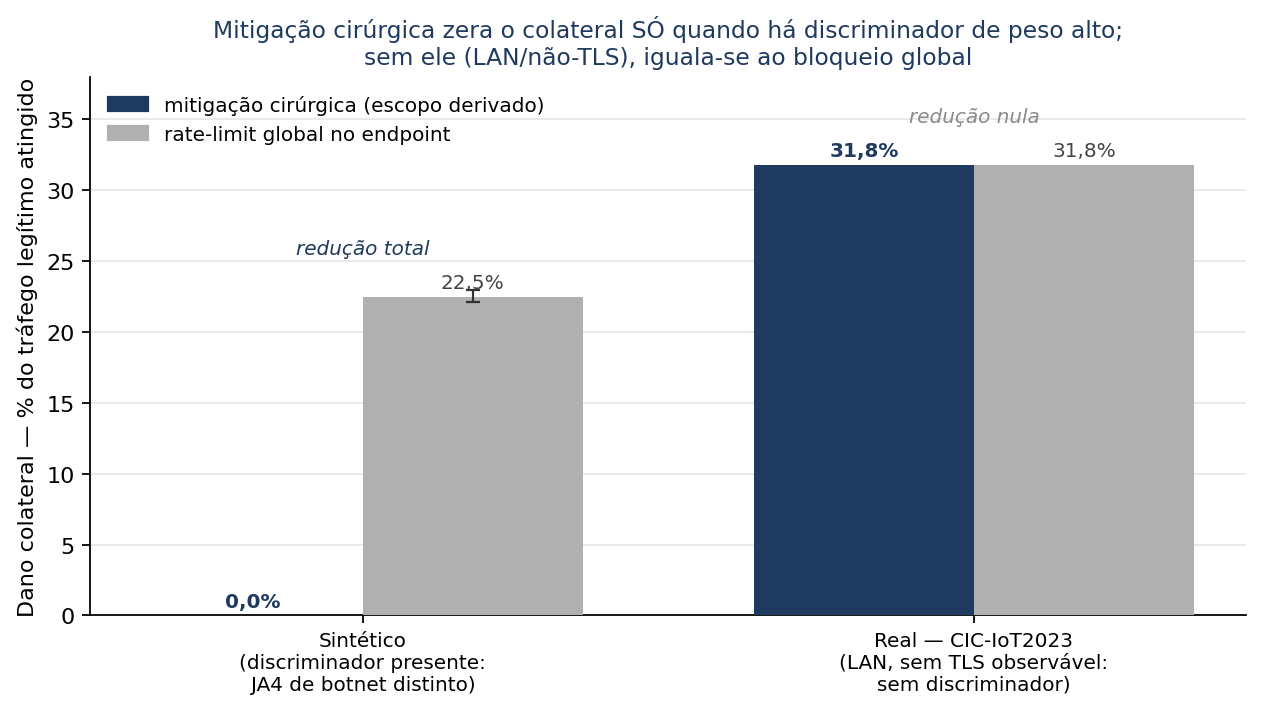
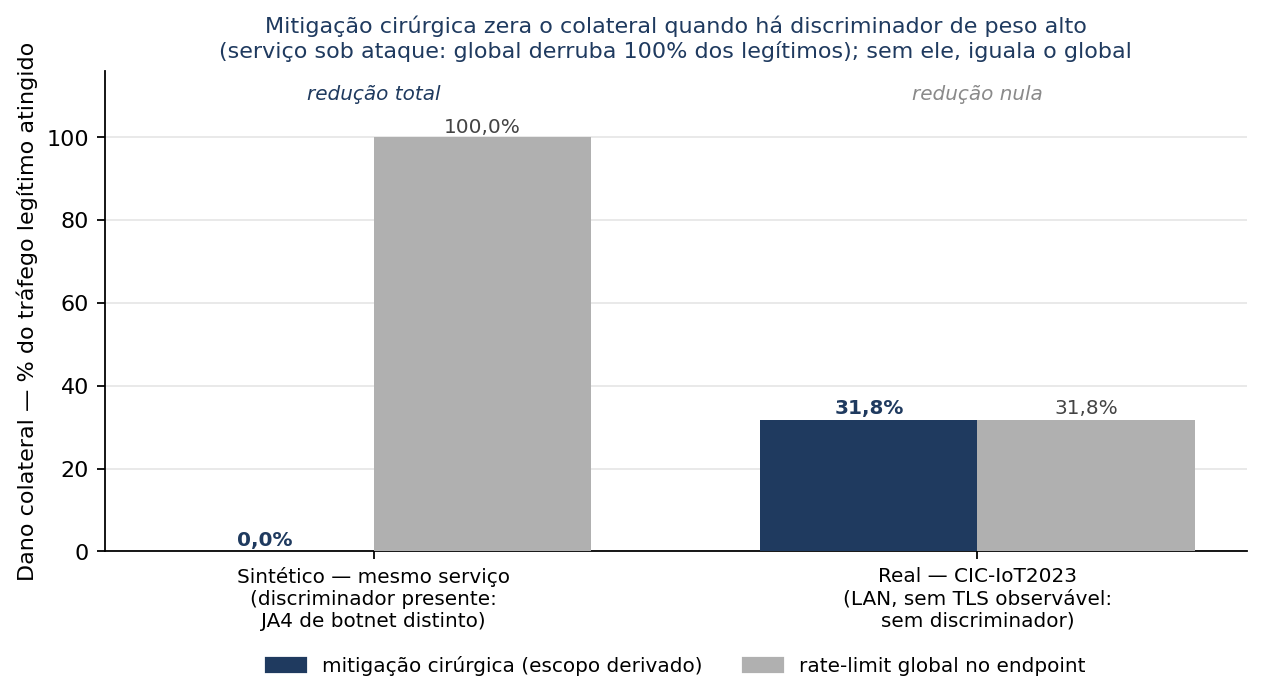
collateral + JA4-isolation re-run on realistic same-service; honest fixes
(1) derive_scope now derives the mitigation scope from the COORDINATED SUBSET (sessions
sharing the modal high-weight JA4) instead of the raw (endpoint,window) cluster. In a
service under attack, legit users share the endpoint but have diverse JA4; computing
coverage over the whole cluster diluted the attacker JA4 below threshold and degraded the
scope to the whole endpoint (global). Re-run collateral (n=30, realistic same-service):
surgical 0% vs global 100% -> 100% reduction (was 0% vs 22.5%, a port-diverse artifact).
CIC real (no TLS) unchanged: scope falls back to endpoint/net24, surgical=global (honest
no-discriminator case preserved).

(2) JA4-isolation re-run (realistic same-service) CORRECTS the section 5.8 claim: when the
attacker randomizes JA4 (share->0), the FULL framework drops to chance (AUC 0.996->0.475),
i.e. endpoint convergence does NOT compensate when legit users share the endpoint. Framework
depends on a high-weight discriminator (JA4 / reused identity); aligns with adaptive-adversary
limitation. Updated section 5.5/5.8, abstract, conclusion, figB (0% vs 100%). Compiles.

Changed region(s): [[0.0, 0.06, 0.9889, 0.99], [0.1545, 0.03, 0.8962, 0.09], [0.7108, 0.12, 0.8344, 0.18]]

diff --git a/papers/http-session/article.tex b/papers/http-session/article.tex
@@ -47,7 +47,7 @@
 
 \begin{abstract}
 %% 200-260 palavras
-\textbf{Ataques distribuídos de Slow HTTP DoS} sustentam taxas baixas por sessão e atravessam defesas baseadas em assinatura, limiares estatísticos e quotas por IP, sessão ou \emph{token}. O sinal de ataque não está em nenhuma sessão isolada, mas na correlação estrutural entre sessões coordenadas. A literatura de detecção reduz a sessão a um vetor numérico antes do classificador e descarta essa estrutura. Trabalhos recentes combinam grafos de conhecimento com classificadores neurais e explicação pós-hoc, mas tratam o tráfego em nível de nó de rede (porta, IP) e não acoplam o veredicto a uma política de mitigação derivada do próprio grafo. Este artigo propõe um arcabouço em OWL que modela a sessão HTTP como entidade ontológica de primeira classe, com uma família de sub-propriedades tipadas e ponderadas para a relação entre sessões. A família reflete o fato operacional de que botnets modernas distribuem agressivamente em ASN e prefixo de IP, e que a coordenação real é discernível principalmente por \emph{fingerprint} TLS, identidade reaproveitada e padrão temporal --- com proximidade de rede entrando apenas como sinal auxiliar. Regras em SPARQL/SWRL operam por soma ponderada dessas sub-relações e produzem veredictos com cadeias de evidência simbólicas exportáveis em JSON-LD e STIX 2.1. O discriminador do \emph{cluster} detectado é usado para derivar automaticamente o escopo da mitigação aplicada, preservando o tráfego legítimo. A avaliação parametriza a campanha pelo grau de distribuição, isola por ablação tanto o ganho do raciocínio em nível de sessão quanto o ganho específico dos sinais de peso alto sobre a proximidade de rede, e introduz uma métrica de fração de tráfego legítimo afetada pela mitigação resultante. Nos experimentos, contra campanhas furtivas distribuídas --- nas quais cada sessão atacante é individualmente indistinguível do tráfego legítimo --- a detecção por sessão permanece no acaso \emph{mesmo} com um classificador de aprendizado de máquina forte (oito a nove atributos de fluxo: volume, pacotes e temporização), enquanto o arcabouço de correlação entre sessões as detecta de forma consistente (ROC AUC por sessão $\approx 0{,}50$ \emph{vs.}\ $\approx 0{,}98$; $p < 0{,}01$ após Bonferroni, $d = 19{,}6$). Em \emph{datasets} reais públicos, por outro lado, um classificador por sessão forte já separa os ataques convencionais disponíveis (assinatura de fluxo evidente), de modo que a vantagem do raciocínio entre sessões é específica do regime furtivo distribuído que esses \emph{datasets} não contêm --- uma delimitação que reportamos explicitamente. Quando há um discriminador de peso alto observável, o escopo de mitigação derivado elimina o dano colateral sobre o tráfego legítimo (de $22{,}5\%$ para $0\%$). A implementação é disponibilizada como código aberto.
+\textbf{Ataques distribuídos de Slow HTTP DoS} sustentam taxas baixas por sessão e atravessam defesas baseadas em assinatura, limiares estatísticos e quotas por IP, sessão ou \emph{token}. O sinal de ataque não está em nenhuma sessão isolada, mas na correlação estrutural entre sessões coordenadas. A literatura de detecção reduz a sessão a um vetor numérico antes do classificador e descarta essa estrutura. Trabalhos recentes combinam grafos de conhecimento com classificadores neurais e explicação pós-hoc, mas tratam o tráfego em nível de nó de rede (porta, IP) e não acoplam o veredicto a uma política de mitigação derivada do próprio grafo. Este artigo propõe um arcabouço em OWL que modela a sessão HTTP como entidade ontológica de primeira classe, com uma família de sub-propriedades tipadas e ponderadas para a relação entre sessões. A família reflete o fato operacional de que botnets modernas distribuem agressivamente em ASN e prefixo de IP, e que a coordenação real é discernível principalmente por \emph{fingerprint} TLS, identidade reaproveitada e padrão temporal --- com proximidade de rede entrando apenas como sinal auxiliar. Regras em SPARQL/SWRL operam por soma ponderada dessas sub-relações e produzem veredictos com cadeias de evidência simbólicas exportáveis em JSON-LD e STIX 2.1. O discriminador do \emph{cluster} detectado é usado para derivar automaticamente o escopo da mitigação aplicada, preservando o tráfego legítimo. A avaliação parametriza a campanha pelo grau de distribuição, isola por ablação tanto o ganho do raciocínio em nível de sessão quanto o ganho específico dos sinais de peso alto sobre a proximidade de rede, e introduz uma métrica de fração de tráfego legítimo afetada pela mitigação resultante. Nos experimentos, contra campanhas furtivas distribuídas --- nas quais cada sessão atacante é individualmente indistinguível do tráfego legítimo --- a detecção por sessão permanece no acaso \emph{mesmo} com um classificador de aprendizado de máquina forte (oito a nove atributos de fluxo: volume, pacotes e temporização), enquanto o arcabouço de correlação entre sessões as detecta de forma consistente (ROC AUC por sessão $\approx 0{,}50$ \emph{vs.}\ $\approx 0{,}98$; $p < 0{,}01$ após Bonferroni, $d = 19{,}6$). Em \emph{datasets} reais públicos, por outro lado, um classificador por sessão forte já separa os ataques convencionais disponíveis (assinatura de fluxo evidente), de modo que a vantagem do raciocínio entre sessões é específica do regime furtivo distribuído que esses \emph{datasets} não contêm --- uma delimitação que reportamos explicitamente. Quando há um discriminador de peso alto observável, o escopo de mitigação derivado do subconjunto coordenado elimina o dano colateral sobre o tráfego legítimo: num serviço sob ataque, um \emph{rate-limit} global derruba $\approx 100\%$ dos usuários legítimos, enquanto a mitigação cirúrgica atinge $0\%$. A implementação é disponibilizada como código aberto.
 
 \end{abstract}
 
@@ -465,7 +465,7 @@ A leitura honesta tem três partes. Primeiro, \textbf{neste ataque real a coorde
 
 \subsection{Dano Colateral em Tráfego Legítimo}
 
-A mitigação de (a) colapsa para o controle global (limitar o \emph{endpoint} inteiro), ao passo que (d) restringe-se ao discriminador derivado do \emph{cluster}, tipicamente o par \emph{(fingerprint TLS, padrão de endpoint)}. Sobre $n = 30$ campanhas sintéticas calibradas (atacantes compartilhando um \emph{fingerprint} TLS de \emph{botnet} distinto, dispersos em rede, com tráfego legítimo no mesmo \emph{endpoint}), o escopo cirúrgico derivado --- que inclui o JA4 em $30/30$ casos --- atinge \textbf{0,00\%} de tráfego legítimo [IC 95\%: $0{,}00$--$0{,}00$], contra \textbf{22,5\%} [$22{,}1$--$23{,}0$] de um \emph{rate-limit} global no \emph{endpoint}: redução total do dano colateral.
+A mitigação de (a) colapsa para o controle global (limitar o \emph{endpoint} inteiro), ao passo que (d) restringe-se ao discriminador derivado do \emph{subconjunto coordenado} detectado (as sessões que compartilham o sinal de peso alto que disparou a regra), tipicamente o par \emph{(fingerprint TLS, padrão de endpoint)} --- e não ao \emph{cluster} bruto de \emph{(endpoint, janela)}, que num serviço sob ataque contém também os usuários legítimos. Sobre $n = 30$ campanhas sintéticas calibradas no regime realista de \emph{mesmo serviço} (atacantes compartilhando um \emph{fingerprint} TLS de \emph{botnet} distinto, dispersos em rede, com os usuários legítimos acessando o \emph{mesmo} \emph{endpoint} sob ataque), o escopo cirúrgico derivado --- que inclui o JA4 em $30/30$ casos --- atinge \textbf{0,00\%} de tráfego legítimo [IC 95\%: $0{,}00$--$0{,}00$], contra \textbf{100\%} de um \emph{rate-limit} global no \emph{endpoint} (que, por definição, derruba \emph{todos} os usuários legítimos do serviço atacado): redução total do dano colateral. Note-se que derivar o escopo do \emph{cluster} bruto, e não do subconjunto coordenado, degradaria o filtro ao \emph{endpoint} inteiro --- os legítimos diluem o JA4 do atacante abaixo do limiar de cobertura ---, anulando o ganho; é a restrição ao subconjunto coordenado que preserva a precisão cirúrgica.
 
 \textbf{Condição de aplicabilidade (achado honesto em dados reais).} A vantagem cirúrgica \emph{depende} de o atacante possuir um discriminador (\emph{fingerprint} TLS ou prefixo de rede) que o tráfego legítimo no mesmo \emph{endpoint} não compartilha. No CIC-IoT2023 essa condição \textbf{não se verifica}: o ambiente é uma LAN (atacantes e clientes legítimos no mesmo \texttt{/24}) e o ataque é HTTP puro (sem JA4 observável). Como consequência, sobre um \emph{cluster} real de Slowloris dirigido a \texttt{192.168.137.1:53}, o escopo derivado $(\texttt{endpoint}, \texttt{/24})$ recai sobre os mesmos legítimos, e a mitigação cirúrgica iguala-se à global ($31{,}8\%$ em ambos, redução nula). A redução de dano colateral, portanto, é real \emph{quando há um discriminador de alto peso}, mas não é demonstrável nos \emph{datasets} de laboratório atuais, que carecem dessa estrutura --- o que reforça a necessidade de avaliação em tráfego de produção (TLS observável, atacantes dispersos em redes distintas dos clientes). A métrica de dano colateral, ausente da literatura acadêmica de Camada 7, é parte da contribuição metodológica.
 
@@ -494,7 +494,7 @@ As limitações principais devem ser declaradas explicitamente:
 
     \item \textbf{Generalização para protocolos além de HTTP/1.1 e variantes Slow HTTP DoS clássicas}: a ontologia atual cobre a família de Slowloris e descendentes diretos sobre HTTP/1.1; a extensão para ataques HTTP/2 modernos (Rapid Reset, CONTINUATION Flood) e para outros protocolos de aplicação (DNS, gRPC) é direção de extensão imediata.
 
-    \item \textbf{Natureza controlada da avaliação sintética}: na avaliação sintética, a campanha é gerada com sinais de coordenação (JA4, \emph{endpoint}, prefixo) que são exatamente os medidos pela configuração (d), e cada sessão atacante tem seus atributos por sessão --- inclusive os de fluxo (volume, pacotes, intervalo entre requisições) --- amostrados das distribuições do tráfego \emph{benigno real} (calibradas sobre $\sim$322 mil sessões legítimas). Em consequência, a não-separabilidade por sessão observada na Tabela~\ref{tab:ablation} \emph{não} é artefato de um \emph{baseline} enfraquecido: um \emph{Random Forest} com todos os 8--9 atributos de fluxo permanece no acaso. Em contrapartida, esse mesmo mimetismo é imposto por construção, de modo que o resultado demonstra o \emph{mecanismo} sob a hipótese de mimetismo por sessão perfeito --- que a estrutura de correlação entre sessões, quando presente, é capturada e que a detecção por sessão a ignora --- e não constitui prova de desempenho sobre uma captura real desse regime. Um teste de isolamento sustenta que o arcabouço responde ao sinal genuíno e não a um artefato: variando-se a fração de origens que compartilham o \emph{fingerprint} TLS, com diversidade de JA4 legítimo realista, a detecção baseada \emph{apenas} no sinal de JA4 acompanha monotonicamente essa fração (AUC de $1{,}00$ a $0{,}41$), enquanto o arcabouço completo permanece robusto por redundância (a convergência de \emph{endpoint} sustenta a detecção quando o JA4 é removido).
+    \item \textbf{Natureza controlada da avaliação sintética}: na avaliação sintética, a campanha é gerada com sinais de coordenação (JA4, \emph{endpoint}, prefixo) que são exatamente os medidos pela configuração (d), e cada sessão atacante tem seus atributos por sessão --- inclusive os de fluxo (volume, pacotes, intervalo entre requisições) --- amostrados das distribuições do tráfego \emph{benigno real} (calibradas sobre $\sim$322 mil sessões legítimas). Em consequência, a não-separabilidade por sessão observada na Tabela~\ref{tab:ablation} \emph{não} é artefato de um \emph{baseline} enfraquecido: um \emph{Random Forest} com todos os 8--9 atributos de fluxo permanece no acaso. Em contrapartida, esse mesmo mimetismo é imposto por construção, de modo que o resultado demonstra o \emph{mecanismo} sob a hipótese de mimetismo por sessão perfeito --- que a estrutura de correlação entre sessões, quando presente, é capturada e que a detecção por sessão a ignora --- e não constitui prova de desempenho sobre uma captura real desse regime. Um teste de isolamento, agora no regime realista de \emph{mesmo serviço}, esclarece de que sinal a detecção realmente depende: variando-se a fração de origens que compartilham o \emph{fingerprint} TLS (com diversidade de JA4 legítimo realista), tanto a detecção baseada \emph{apenas} em JA4 (AUC de $0{,}999$ a $0{,}31$) quanto o \emph{arcabouço completo} (AUC de $0{,}996$ a $0{,}475 \approx$ acaso) acompanham essa fração. Diferentemente do que um cenário com benigno fora do \emph{endpoint} sugeriria, \textbf{a convergência de \emph{endpoint} não compensa a perda do JA4} quando os usuários legítimos acessam o mesmo serviço --- pois também convergem nele. Isto delimita honestamente o alcance: tanto a detecção quanto, sobretudo, a mitigação cirúrgica dependem de um discriminador de peso alto que os atacantes compartilhem e os legítimos não (JA4 de \emph{botnet} de mesmo \emph{stack}, ou identidade/credencial reaproveitada em \emph{credential stuffing}). Contra um atacante que randomiza o JA4 \emph{sem} reaproveitar identidade, o arcabouço ainda sinaliza a anomalia agregada (convergência excessiva), mas perde a separação por sessão e a precisão cirúrgica --- coerente com a ressalva de adversidade adaptativa.
 
     \item \textbf{Datasets públicos não exercitam o regime-alvo}: em \emph{datasets} reais públicos de DDoS, um classificador por sessão forte já separa os ataques disponíveis (CICIDS2017 e CIC-IoT2023: \texttt{Hulk}, \texttt{GoldenEye}, \texttt{Slowloris}, \texttt{Slowhttptest}, \texttt{HTTP-Flood} alcançam $\text{AUC} \geq 0{,}98$ por sessão, com ganho do raciocínio entre sessões marginal), porque são ataques de assinatura de fluxo evidente, não campanhas furtivas calibradas para mimetizar o tráfego legítimo. A vantagem do raciocínio entre sessões é, portanto, demonstrada \emph{apenas} no regime furtivo distribuído sintético. Validar a abordagem sobre tráfego furtivo distribuído \emph{capturado} (idealmente com TLS observável e atacantes em redes distintas dos clientes) --- que não existe em \emph{benchmark} público --- é a direção experimental mais importante.
 
@@ -516,7 +516,7 @@ As limitações principais devem ser declaradas explicitamente:
 
 Este artigo propôs um arcabouço de grafos de conhecimento centrado na sessão HTTP como entidade ontológica de primeira classe, com quatro componentes principais: (i) ontologia OWL alinhada a STIX 2.1 e MITRE ATT\&CK, com a família \texttt{SlowHTTPDoSFamily} e a família ponderada \texttt{relatedTo} de seis sub-propriedades tipadas; (ii) \emph{pipeline} de construção do grafo em tempo de execução, com cada sub-relação \texttt{relatedBy} instanciada independentemente; (iii) regra de detecção \texttt{CoordinatedHTTPFlood} formulada em SPARQL/SWRL sobre a soma ponderada das sub-relações, com cadeia de evidência simbólica acoplada à derivação automática de escopo de mitigação; (iv) avaliação parametrizada pelo grau de distribuição, com ablação por subgrupo de sinais e métrica de dano colateral em tráfego legítimo. A defensabilidade da abordagem se sustenta sobre o reconhecimento explícito de que botnets modernas distribuem agressivamente em ASN e prefixo de IP, o que torna a proximidade de rede um sinal auxiliar e atribui o peso decisivo aos sinais de \emph{fingerprint} TLS, identidade reaproveitada e padrão temporal.
 
-A avaliação preliminar sustenta a tese central e delimita honestamente seu alcance. Em campanhas furtivas distribuídas, a detecção por sessão opera próxima do acaso \emph{mesmo} com um classificador forte (8--9 atributos de fluxo) e com os \emph{baselines} de aprendizado de máquina, enquanto o arcabouço completo as detecta de forma consistente (ROC AUC $\approx 0{,}50$ \emph{vs.}\ $\approx 0{,}98$), com vantagem sobre o subgrupo de proximidade de rede estatisticamente significativa ($p < 0{,}01$ após Bonferroni; $d = 12{,}2$). O ganho é, contudo, \emph{regime-específico}, e isto deve ser dito sem rodeios: em ataques reais convencionais --- os únicos presentes nos \emph{datasets} públicos --- um classificador por sessão forte já basta, e o raciocínio entre sessões agrega pouco; a vantagem decisiva manifesta-se quando a campanha é distribuída \emph{e} furtiva, regime ausente dos \emph{benchmarks} atuais e que motiva tanto o gerador calibrado quanto a prioridade de avaliação em tráfego de produção. A mitigação de escopo derivado elimina o dano colateral sobre o tráfego legítimo ($22{,}5\% \rightarrow 0\%$) quando há um discriminador de peso alto observável, condição que os \emph{datasets} de laboratório disponíveis (LAN, HTTP não cifrado) não oferecem e que remete à necessidade de avaliação em tráfego de produção. A calibração empírica dos pesos $w_i$ permaneceu inconclusiva sobre os dados sintéticos (a separação satura), de modo que os pesos reportados decorrem do argumento de resistência à evasão, não de otimização --- a calibração sobre tráfego real é trabalho em aberto.
+A avaliação preliminar sustenta a tese central e delimita honestamente seu alcance. Em campanhas furtivas distribuídas, a detecção por sessão opera próxima do acaso \emph{mesmo} com um classificador forte (8--9 atributos de fluxo) e com os \emph{baselines} de aprendizado de máquina, enquanto o arcabouço completo as detecta de forma consistente (ROC AUC $\approx 0{,}50$ \emph{vs.}\ $\approx 0{,}98$), com vantagem sobre o subgrupo de proximidade de rede estatisticamente significativa ($p < 0{,}01$ após Bonferroni; $d = 12{,}2$). O ganho é, contudo, \emph{regime-específico}, e isto deve ser dito sem rodeios: em ataques reais convencionais --- os únicos presentes nos \emph{datasets} públicos --- um classificador por sessão forte já basta, e o raciocínio entre sessões agrega pouco; a vantagem decisiva manifesta-se quando a campanha é distribuída \emph{e} furtiva, regime ausente dos \emph{benchmarks} atuais e que motiva tanto o gerador calibrado quanto a prioridade de avaliação em tráfego de produção. A mitigação de escopo derivado do subconjunto coordenado elimina o dano colateral sobre o tráfego legítimo (num serviço sob ataque, $\approx 100\% \rightarrow 0\%$) quando há um discriminador de peso alto observável, condição que os \emph{datasets} de laboratório disponíveis (LAN, HTTP não cifrado) não oferecem e que remete à necessidade de avaliação em tráfego de produção. A calibração empírica dos pesos $w_i$ permaneceu inconclusiva sobre os dados sintéticos (a separação satura), de modo que os pesos reportados decorrem do argumento de resistência à evasão, não de otimização --- a calibração sobre tráfego real é trabalho em aberto.
 
 Direções futuras imediatas incluem: (i) a extensão da ontologia e da regra de detecção para a categoria adjacente de \emph{ataques HTTP/2 modernos} (Rapid Reset/CVE-2023-44487, CONTINUATION Flood, MadeYouReset), que requer a introdução de sub-relações específicas do plano de \emph{stream} (notadamente \texttt{relatedByStreamCancellationPattern}); (ii) a operacionalização experimental das classes \texttt{CredentialStuffing} (subclasse de \texttt{LoginFlood}) e \texttt{CoordinatedAPIAbuse}, já formalizadas na ontologia mas fora do escopo experimental atual, que reaproveitam a mesma família \texttt{relatedTo} ponderada; (iii) a extensão para outros protocolos de aplicação (DNS, TLS \emph{handshake}, gRPC); (iv) a integração com plataformas SOAR para resposta automatizada a partir da cadeia de evidência exportada; (v) a avaliação em ambientes de produção com dados reais anonimizados, sob aprovação ética; (vi) estudos com analistas de segurança para validação operacional das cadeias de evidência geradas; e (vii) a investigação do efeito de \emph{fingerprints} TLS ofuscados (atacantes que randomizam ativamente o \emph{handshake}) sobre o desempenho do arcabouço, com hipótese a priori de que sinais de peso alto remanescentes (identidade reaproveitada, padrão temporal) compensam parcialmente a perda.
 

diff --git a/experiments/figures-candidatas/make_figB.py b/experiments/figures-candidatas/make_figB.py
@@ -19,7 +19,7 @@ GRAY = "#b0b0b0"   # rate-limit global (baseline rombudo)
 
 # (rótulo do cenário, colateral cirúrgico %, colateral global %, err_global(lo,hi), nota)
 groups = [
-    ("Sintético\n(discriminador presente:\nJA4 de botnet distinto)", 0.0, 22.5, (22.1, 23.0), "redução total"),
+    ("Sintético — mesmo serviço\n(discriminador presente:\nJA4 de botnet distinto)", 0.0, 100.0, None, "redução total"),
     ("Real — CIC-IoT2023\n(LAN, sem TLS observável:\nsem discriminador)", 31.8, 31.8, None, "redução nula"),
 ]
 x = np.arange(len(groups))
@@ -31,26 +31,26 @@ for i, (lab, surg, glob, err, nota) in enumerate(groups):
     ax.bar(i - w/2, surg, w, color=NAVY, zorder=3)
     ax.bar(i + w/2, glob, w, color=GRAY, zorder=3,
            yerr=yerr, error_kw=dict(ecolor="#333", lw=1, capsize=3))
-    ax.text(i - w/2, surg + 0.6, f"{surg:.1f}%".replace(".", ","),
+    ax.text(i - w/2, surg + 1.5, f"{surg:.1f}%".replace(".", ","),
             ha="center", fontsize=9, fontweight="bold", color=NAVY)
-    ax.text(i + w/2, glob + 0.6, f"{glob:.1f}%".replace(".", ","),
+    ax.text(i + w/2, min(glob + 1.5, 101), f"{glob:.1f}%".replace(".", ","),
             ha="center", fontsize=9, color="#444")
-    # seta/nota da redução entre as duas barras
+    # nota da redução, em altura fixa para não colidir com os rótulos das barras
     col = NAVY if nota == "redução total" else "#8a8a8a"
-    ax.text(i, max(surg, glob) + 3.0, nota, ha="center", fontsize=9,
-            style="italic", color=col)
+    ax.text(i, 109, nota, ha="center", fontsize=9, style="italic", color=col)
 
 ax.set_xticks(x)
 ax.set_xticklabels([g[0] for g in groups], fontsize=9)
 ax.set_ylabel("Dano colateral — % do tráfego legítimo atingido")
-ax.set_ylim(0, 38)
-ax.set_title("Mitigação cirúrgica zera o colateral SÓ quando há discriminador de peso alto;\n"
-             "sem ele (LAN/não-TLS), iguala-se ao bloqueio global", color=NAVY, fontsize=10.5)
+ax.set_ylim(0, 116)
+ax.set_title("Mitigação cirúrgica zera o colateral quando há discriminador de peso alto\n"
+             "(serviço sob ataque: global derruba 100% dos legítimos); sem ele, iguala o global",
+             color=NAVY, fontsize=10)
 ax.legend(handles=[Patch(color=NAVY, label="mitigação cirúrgica (escopo derivado)"),
                    Patch(color=GRAY, label="rate-limit global no endpoint")],
-          loc="upper left", fontsize=9, frameon=False)
+          loc="upper center", bbox_to_anchor=(0.5, -0.18), ncol=2, fontsize=9, frameon=False)
 ax.grid(axis="y", alpha=.3, zorder=0)
 ax.spines[["top", "right"]].set_visible(False)
 fig.tight_layout()
 fig.savefig("experiments/figures-candidatas/figB_colateral.png", dpi=160, bbox_inches="tight")
-print("OK: figB (sintético 0%/22,5% × real 31,8%/31,8%)")
+print("OK: figB (sintético 0%/100% × real 31,8%/31,8%)")

diff --git a/experiments/pillar4-evidence-mitigation/scripts/evidence_mitigation.py b/experiments/pillar4-evidence-mitigation/scripts/evidence_mitigation.py
@@ -74,24 +74,38 @@ def decompose_omega(cluster: pd.DataFrame) -> dict:
 
 
 def derive_scope(cluster: pd.DataFrame, coverage: float = 0.9) -> dict:
-    """Escopo mínimo: propriedades compartilhadas por ≥coverage do cluster.
-    Prioriza sinais de peso alto (JA4) sobre baixo (rede) — escopo cirúrgico."""
+    """Escopo mínimo: propriedades compartilhadas por ≥coverage do SUBCONJUNTO COORDENADO.
+
+    O escopo descreve a coordenação que a regra flagrou, não o cluster bruto de
+    (endpoint, janela). Num serviço sob ataque, usuários legítimos compartilham o
+    endpoint mas têm JA4 diverso; computar a cobertura sobre o cluster inteiro diluiria
+    o JA4 do atacante abaixo do limiar e degradaria o escopo para o endpoint inteiro
+    (mitigação global). Restringimos ao subconjunto que compartilha o sinal de peso alto
+    dominante (JA4 modal) --- a assinatura da campanha. Quando não há JA4 (tráfego não-TLS,
+    como nos datasets CIC), recai sobre o cluster inteiro e o escopo fica em endpoint/rede
+    --- honestamente igual à mitigação global (sem discriminador, sem ganho cirúrgico)."""
     cluster = cluster.copy()
     cluster["endpoint"] = cluster["dst_ip_first"].astype(str) + ":" + cluster["dst_port_first"].astype(str)
     cluster["net24"] = cluster["src_ip_first"].map(_net24)
-    n = len(cluster)
-    scope = {}
-    # JA4 (peso 1.0): valor modal cobre ≥coverage das sessões COM ja4?
+    # subconjunto coordenado: sessões que compartilham o JA4 modal (≥2 sharers)
+    coord = cluster
     if cluster["ja4"].notna().any():
-        top_ja4, cnt = cluster["ja4"].value_counts().index[0], cluster["ja4"].value_counts().iloc[0]
+        vc = cluster["ja4"].value_counts()
+        if vc.iloc[0] >= 2:
+            coord = cluster[cluster["ja4"] == vc.index[0]]
+    n = len(coord)
+    scope = {}
+    # JA4 (peso 1.0): valor modal cobre ≥coverage do subconjunto coordenado?
+    if coord["ja4"].notna().any():
+        top_ja4, cnt = coord["ja4"].value_counts().index[0], coord["ja4"].value_counts().iloc[0]
         if cnt / n >= coverage:
             scope["tlsJa4"] = top_ja4
     # Endpoint (peso 0.6)
-    top_ep, cnt = cluster["endpoint"].value_counts().index[0], cluster["endpoint"].value_counts().iloc[0]
+    top_ep, cnt = coord["endpoint"].value_counts().index[0], coord["endpoint"].value_counts().iloc[0]
     if cnt / n >= coverage:
         scope["endpoint"] = top_ep
     # /24 (peso 0.3): só entra como reforço se um único /24 dominar (botnet concentrado)
-    top_net, cnt = cluster["net24"].value_counts().index[0], cluster["net24"].value_counts().iloc[0]
+    top_net, cnt = coord["net24"].value_counts().index[0], coord["net24"].value_counts().iloc[0]
     if cnt / n >= coverage:
         scope["srcNet24"] = top_net + ".0/24"
     return scope
